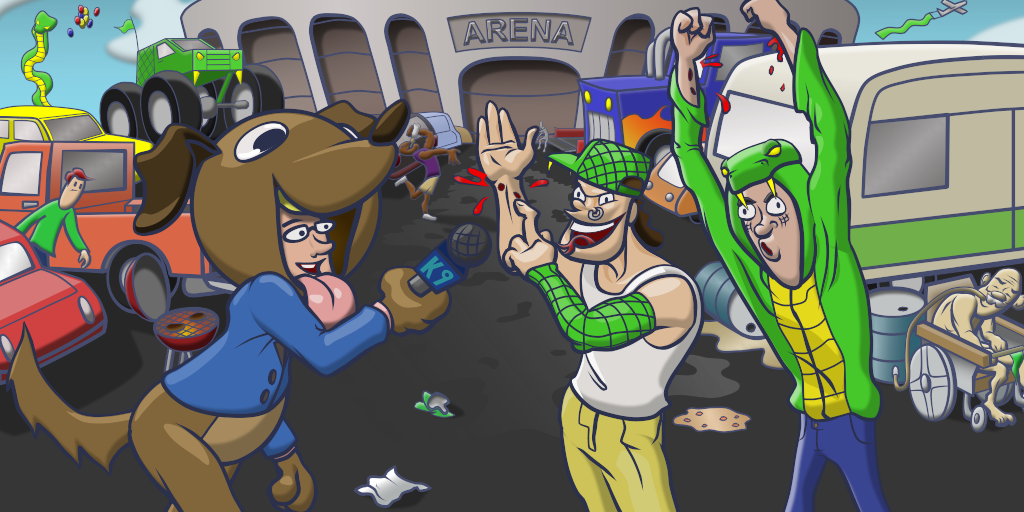
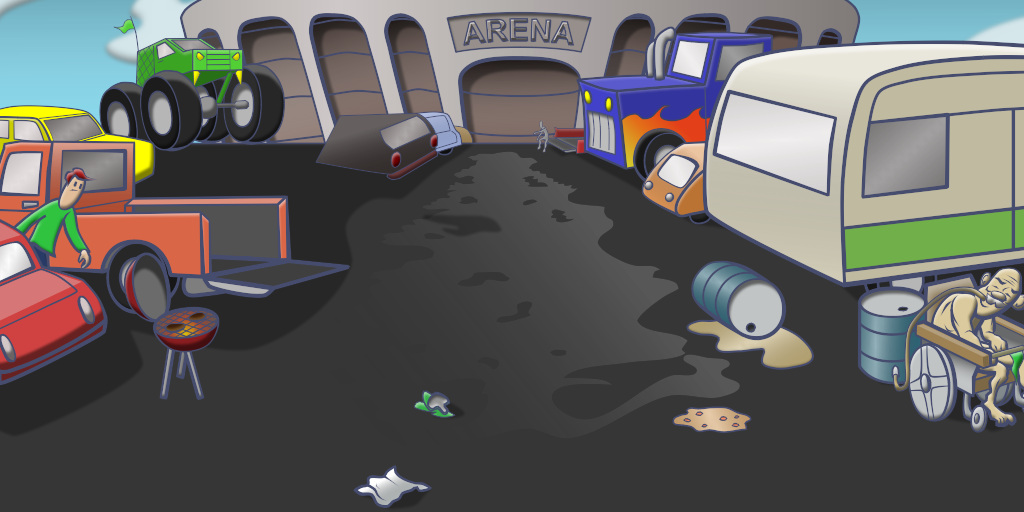
Adding snake cutscene stuff

diff --git a/game.js b/game.js
@@ -14024,7 +14024,54 @@ $(function() {
         nextState: MapState
       },
       hiss: {
-        text: "What do you like BEST about the Serpentmen?\n\nThey BIT me! WooOo!"
+        text: "What do you like BEST about the Serpentmen?\n\nThey BIT me! WooOo!",
+        props: [
+          {
+            plane: {
+              xFn: function(t) {
+                return App.width - 120 + 15 * t;
+              },
+              yFn: function(t) {
+                return 20 - 1 * t;
+              }
+            },
+            balloons: {
+              x: 95,
+              yFn: function(t) {
+                return 80 - t * 20;
+              }
+            },
+            tail: {
+              registrationPoint: Point(-370, 170),
+              rotationFn: function(t) {
+                return Math.sin((t / 5) * Math.TAU) * Math.TAU / 64 + Math.sin((t / 3 - 0.25) * Math.TAU) * Math.TAU / 128;
+              }
+            }
+          }, "body", {
+            head: {
+              registrationPoint: Point(-250, 0),
+              rotationFn: function(t) {
+                return Math.sin((t / 5) * Math.TAU) * Math.TAU / 64 + Math.sin((t / 3 - 0.25) * Math.TAU) * Math.TAU / 128;
+              }
+            },
+            arm: {
+              registrationPoint: Point(-245, 45),
+              rotationFn: function(t) {
+                return Math.TAU / 64 + Math.sin((t / 5) * Math.TAU) * Math.TAU / 64 + Math.sin((t / 3 - 0.25) * Math.TAU) * Math.TAU / 128;
+              },
+              y: App.height / 3 + 20,
+              x: App.width / 2 - 20
+            },
+            skeeroy: {
+              x: 600,
+              y: 350
+            },
+            jerls: {
+              y: 300,
+              x: App.width * 3 / 4
+            }
+          }
+        ]
       },
       smiley: {
         text: "Here's a fan now! Hello sir, why are YOU smiling?\n\nHow the HELL should I know?",
@@ -20039,7 +20086,7 @@ engine.setState(LoaderState({
 }));
 
 $(function() {
-  return engine.setState(Cutscene.scenes.smiley);
+  return engine.setState(Cutscene.scenes.spike);
 });
 
 engine.start();
